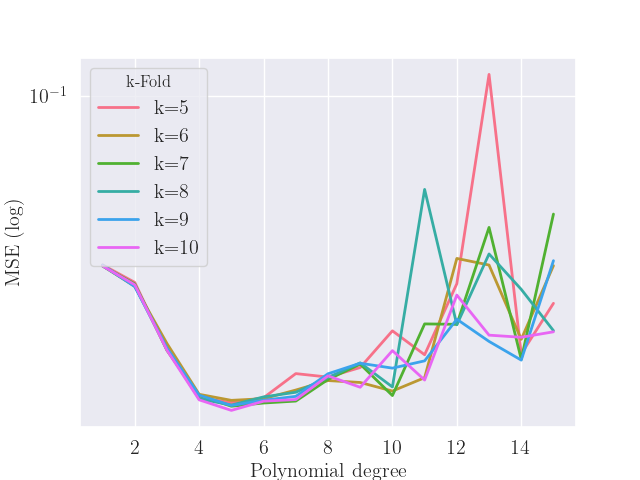
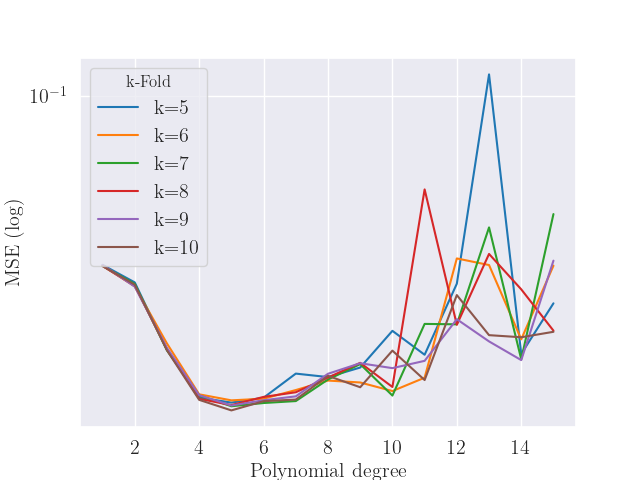
Stuff

diff --git a/code/part_e.py b/code/part_e.py
@@ -648,10 +648,10 @@ if __name__ == '__main__':
         for j in range(n_lambdas):
             # error_train_ridge[i, j], error_test_ridge[i, j] = crossval_ridge(x, y, z, i+1, k, lambdas[j])
             # error_train_ridge_noise[i, j], error_test_ridge_noise[i, j] = crossval_ridge(x, y, z_noise, i+1, k, lambdas[j])
-            # error_train_real_cv_ridge[i, j], error_test_real_cv_ridge[i, j] = crossval_ridge_real(x_real, y_real, z_real, i+1, k, lambdas[j])
-            error_train_cv_lasso[i, j], error_test_cv_lasso[i, j] = crossval_lasso(x, y, z, i+1, k, alpha=lambdas[j])
-            error_train_cv_lasso_noise[i, j], error_test_cv_lasso_noise[i, j] = crossval_lasso(x, y, z_noise, i+1, k, alpha=lambdas[j])
-            error_train_real_cv_lasso[i, j], error_test_real_cv_lasso[i, j] = crossval_lasso(x_real, y_real, z_real, i+1, k, alpha=lambdas[j])
+            error_train_real_cv_ridge[i, j], error_test_real_cv_ridge[i, j] = crossval_ridge_real(x_real, y_real, z_real, i+1, k, lambdas[j])
+            # error_train_cv_lasso[i, j], error_test_cv_lasso[i, j] = crossval_lasso(x, y, z, i+1, k, alpha=lambdas[j])
+            # error_train_cv_lasso_noise[i, j], error_test_cv_lasso_noise[i, j] = crossval_lasso(x, y, z_noise, i+1, k, alpha=lambdas[j])
+            # error_train_real_cv_lasso[i, j], error_test_real_cv_lasso[i, j] = crossval_lasso(x_real, y_real, z_real, i+1, k, alpha=lambdas[j])
         # error_train[i], error_test[i], bias[i], variance[i] = bootstrap(x, y, z, i+1, 100)
         # error_train[i], error_test[i], bias[i], variance[i] = bootstrap_reshape(x, y, z, i+1, 100)
         # error[i], error_train[i], error_test[i], bias[i], variance[i] = bootstrap_sklearn(x, y, z, i+1, 100, intercept=False)
@@ -662,8 +662,8 @@ if __name__ == '__main__':
     # fig2, ax2 = plt.subplots()
     # fig3, ax3 = plt.subplots()
     fig4, ax4 = plt.subplots()
-    fig5, ax5 = plt.subplots()
-    fig6, ax6 = plt.subplots()
+    # fig5, ax5 = plt.subplots()
+    # fig6, ax6 = plt.subplots()
 
     # Franke function without noise
     # ax1.plot(degrees, error_train, color=colors[0], linestyle='--')
@@ -718,30 +718,30 @@ if __name__ == '__main__':
     # fig4.savefig("../LaTeX/Images/cv_ridge.png")
 
     for j in range(n_lambdas):
-        ax4.plot(degrees, error_test_cv_lasso[:, j], label=rf'$\lambda = 10^{j-8}$', color=colors_ridge[j])
-        ax5.plot(degrees, error_test_cv_lasso_noise[:, j], label=rf'$\lambda = 10^{j-8}$', color=colors_ridge[j])
-        ax6.plot(degrees, error_test_real_cv_lasso[:, j], label=rf'$\lambda = 10^{j-8}$', color=colors_ridge[j])
+        ax4.plot(degrees, error_test_real_cv_ridge[:, j], label=rf'$\lambda = 10^{j-8}$', color=colors_ridge[j])
+        # ax5.plot(degrees, error_test_cv_lasso_noise[:, j], label=rf'$\lambda = 10^{j-8}$', color=colors_ridge[j])
+        # ax6.plot(degrees, error_test_real_cv_lasso[:, j], label=rf'$\lambda = 10^{j-8}$', color=colors_ridge[j])
     
     ax4.set_xlabel("Polynomial degree")
     ax4.set_yscale('log')
     ax4.set_ylabel("MSE (log)")
     ax4.set_xticks(np.arange(0, max_degree+1, 2, dtype=np.int32))
     ax4.legend(loc='upper right')
-    fig4.savefig("../LaTeX/Images/cv_lasso.png")
+    fig4.savefig("../LaTeX/Images/cv_ridge_terrain.png")
 
-    ax5.set_xlabel("Polynomial degree")
-    ax5.set_yscale('log')
-    ax5.set_ylabel("MSE (log)")
-    ax5.set_xticks(np.arange(0, max_degree+1, 2, dtype=np.int32))
-    ax5.legend(loc='upper right')
-    fig5.savefig("../LaTeX/Images/cv_lasso_noise.png")
+    # ax5.set_xlabel("Polynomial degree")
+    # ax5.set_yscale('log')
+    # ax5.set_ylabel("MSE (log)")
+    # ax5.set_xticks(np.arange(0, max_degree+1, 2, dtype=np.int32))
+    # ax5.legend(loc='upper right')
+    # fig5.savefig("../LaTeX/Images/cv_lasso_noise.png")
 
-    ax6.set_xlabel("Polynomial degree")
-    ax6.set_yscale('log')
-    ax6.set_ylabel("MSE (log)")
-    ax6.set_xticks(np.arange(0, max_degree+1, 2, dtype=np.int32))
-    ax6.legend(loc='upper right')
-    fig6.savefig("../LaTeX/Images/cv_lasso_real.png")
+    # ax6.set_xlabel("Polynomial degree")
+    # ax6.set_yscale('log')
+    # ax6.set_ylabel("MSE (log)")
+    # ax6.set_xticks(np.arange(0, max_degree+1, 2, dtype=np.int32))
+    # ax6.legend(loc='upper right')
+    # fig6.savefig("../LaTeX/Images/cv_lasso_real.png")
 
     # for i in range(max_degree):
 
